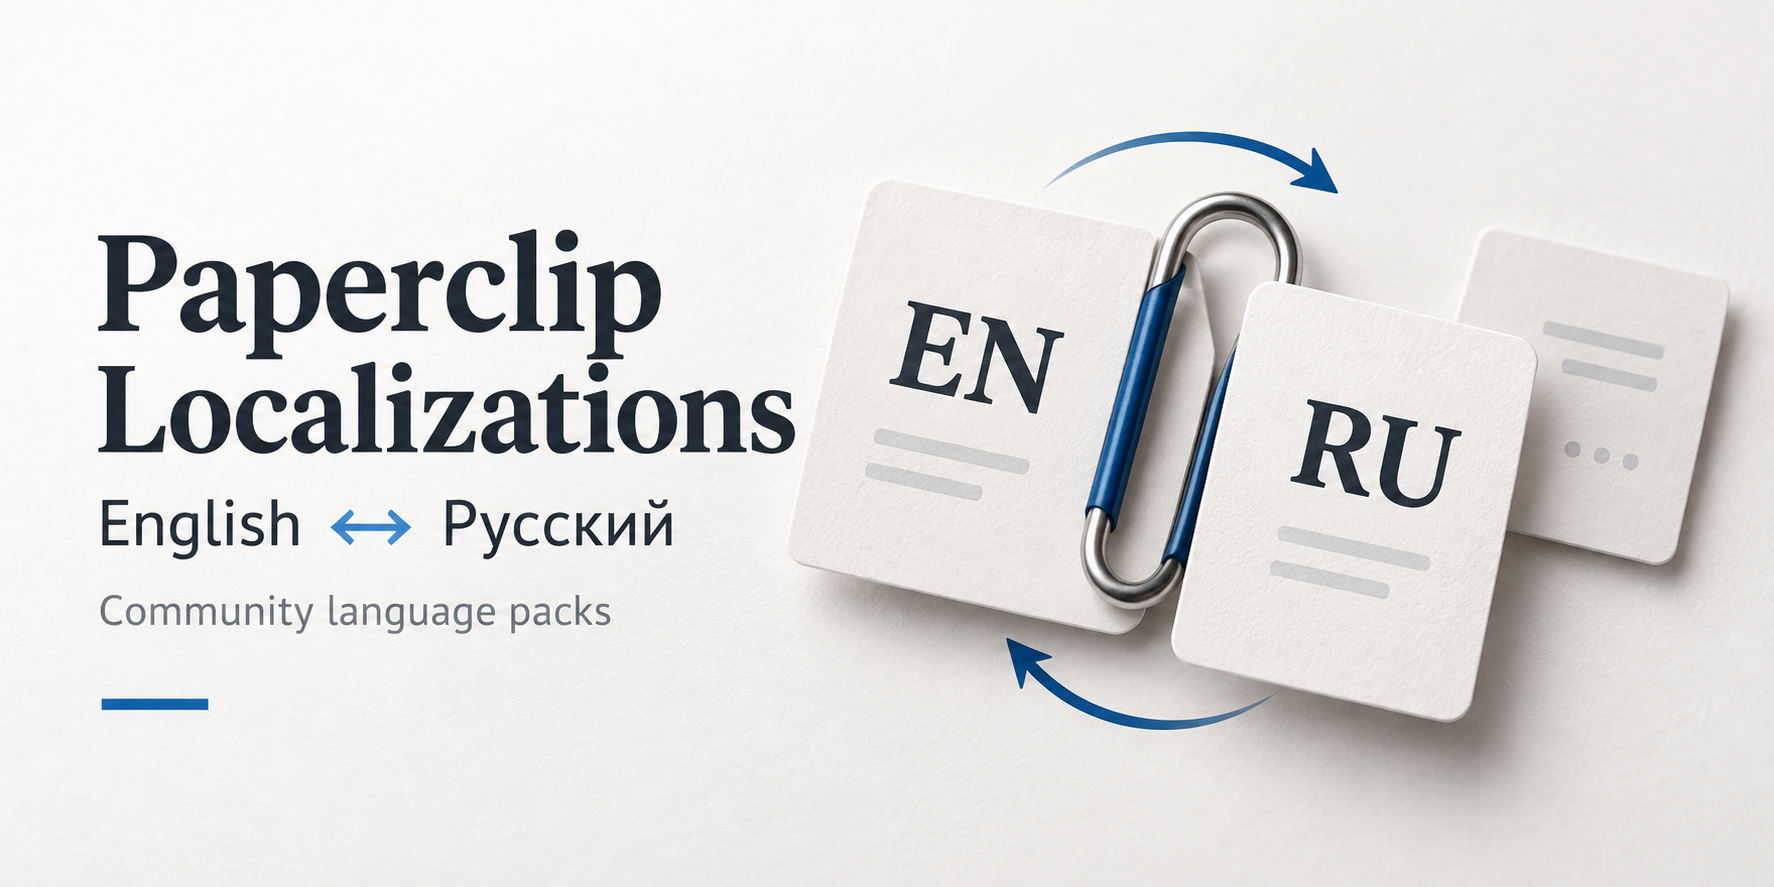
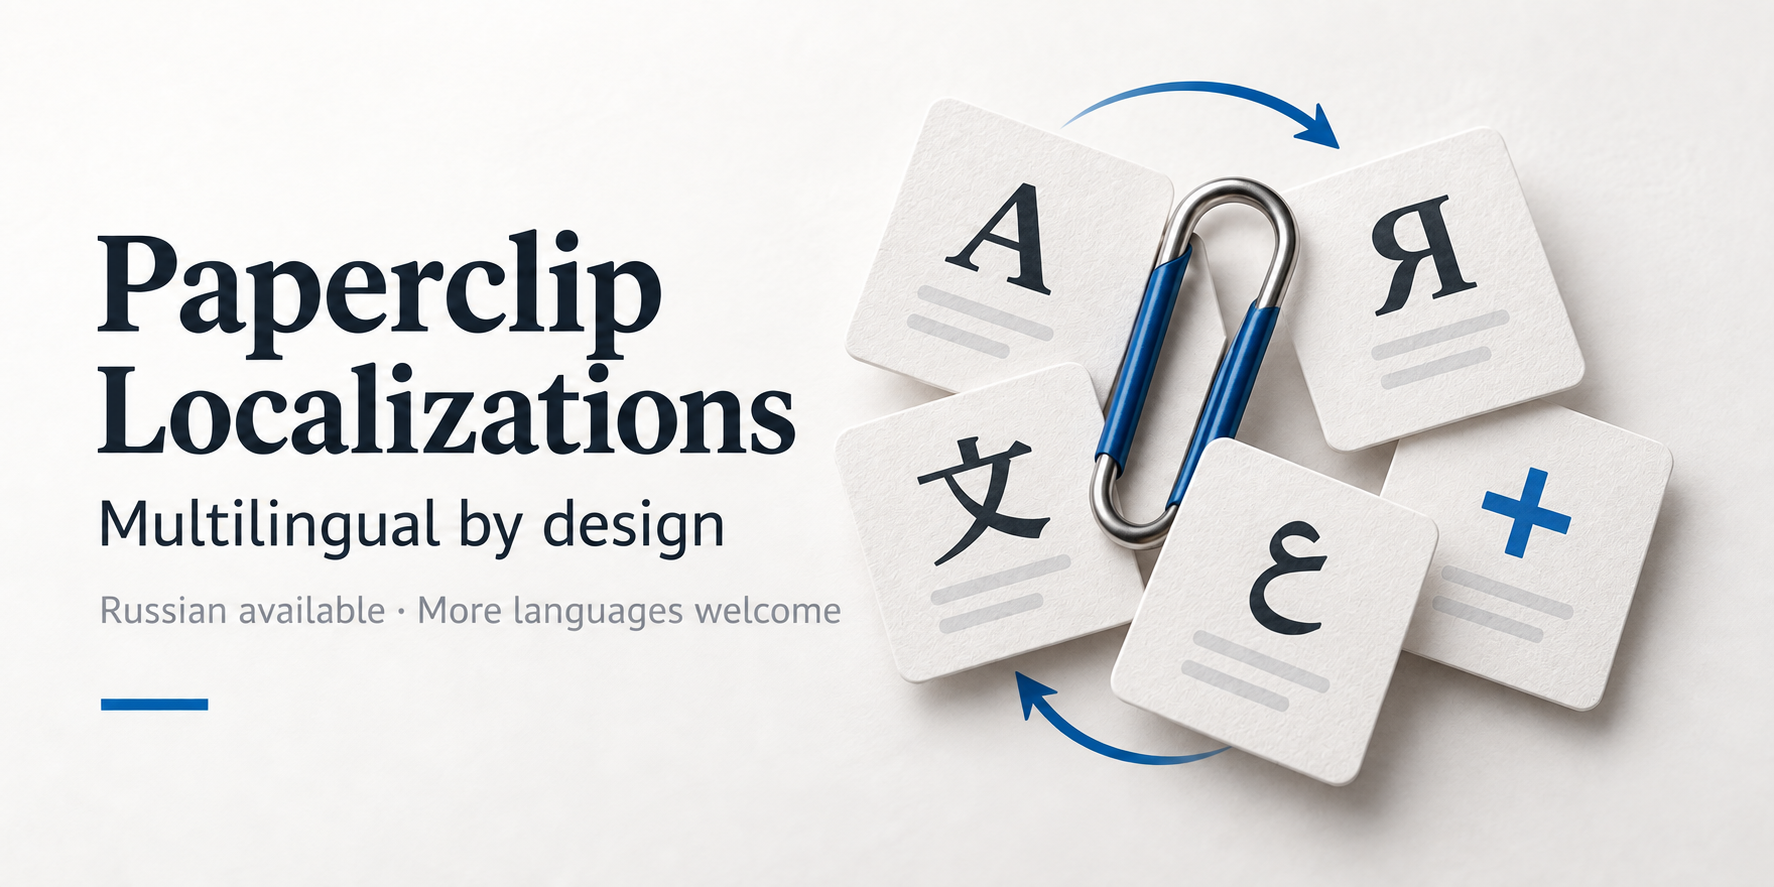
docs: emphasize multilingual contributions in repository cover

diff --git a/assets/README.md b/assets/README.md
@@ -1,7 +1,20 @@
 # Cover artwork
 
-`cover.png` is original AI-generated raster artwork for this independent community repository, produced with the built-in image generation tool on 2026-09-12. It is not an official Paperclip or GitHub logo. It is distributed under this repository's MIT license; no exclusive trademark or copyright claim is made about generated elements.
+`cover.png` is original AI-generated raster artwork for this independent community repository, produced with the built-in image generation tool on 2026-09-12 and edited with the same tool on 2026-09-13 to emphasize multilingual extensibility. It is not an official Paperclip or GitHub logo. It is distributed under this repository's MIT license; no exclusive trademark or copyright claim is made about generated elements.
 
-## Generation prompt
+The Latin, Cyrillic, Chinese, and Arabic glyphs illustrate language diversity, not a list of shipped translations. The plus card invites contributors to add a language. The caption distinguishes the available Russian translation from future community contributions.
+
+## Current cover: edit prompt
+
+Mode: built-in image generation, editing the original cover as a reference image. No CLI/API fallback or manual image retouching was used.
+
+Use case: precise-object-edit.
+Asset type: polished wide GitHub README cover for the independent community project Paperclip Localizations.
+Input image 1 is the existing cover to edit. Preserve its off-white textured paper background, dark graphite serif title, deep blue accent, tactile paper and metal materials, soft studio shadows, wide approximately 2:1 framing, generous safe margins, and overall editorial composition with title on the left and sculptural paperclip illustration on the right.
+Primary change: communicate an extensible multilingual community project, not a fixed English/Russian pair. Keep the large exact two-line title "Paperclip Localizations". Replace the existing "English ↔ Русский" line with the exact subtitle "Multilingual by design". Replace "Community language packs" with the exact smaller line "Russian available · More languages welcome". Render all text verbatim, highly legible, with balanced spacing and no overlap.
+Replace the two prominent EN/RU cards and the blank card with an elegant, airy fan of five paper language cards around the same recognizable blue-and-metal paperclip. Use a single clearly drawn glyph on each of four cards: Latin "A", Cyrillic "Я", Chinese "文", Arabic "ع". The fifth card prominently shows a blue "+" symbol to invite contributions and future languages. The glyphs are illustrative examples of diverse writing systems, not badges of currently supported translations. Keep each visible glyph unobscured. A restrained curved blue connection motif may unify the cards. Do not crowd the title area or crop the cards.
+Constraints: preserve the existing visual identity; no flags, no official logos, no robots, no checkmarks or support badges, no fake UI, no claims that all languages are available, no additional copy, no watermark. Russian is currently available; other languages are welcome as future contributions. Deliver a finished raster cover.
+
+## Original generation prompt (2026-09-12)
 
 Use case: ads-marketing. Asset type: polished wide GitHub README cover for an independent community project named Paperclip Localizations. Create an original editorial software-project illustration, landscape approximately 2:1, generous safe margins. A sculptural paperclip joining two clean paper language cards labeled EN and RU, with a subtle bidirectional connection motif; suggest extensibility with a small unlabelled additional card, not flags or claimed supported languages. Restrained off-white paper, dark graphite typography, one deep blue accent; tactile soft shadows, crisp professional design, attractive at GitHub README width and as a small preview. Include these exact, highly legible texts only: large title "Paperclip Localizations", secondary line "English ↔ Русский", small line "Community language packs". No official Paperclip logo, no GitHub logo, no robots, no flags, no fake UI screenshots, no marketing statistics, no watermark. The composition must communicate translation packs and language switching clearly, without implying official affiliation. Deliver a finished raster cover.
